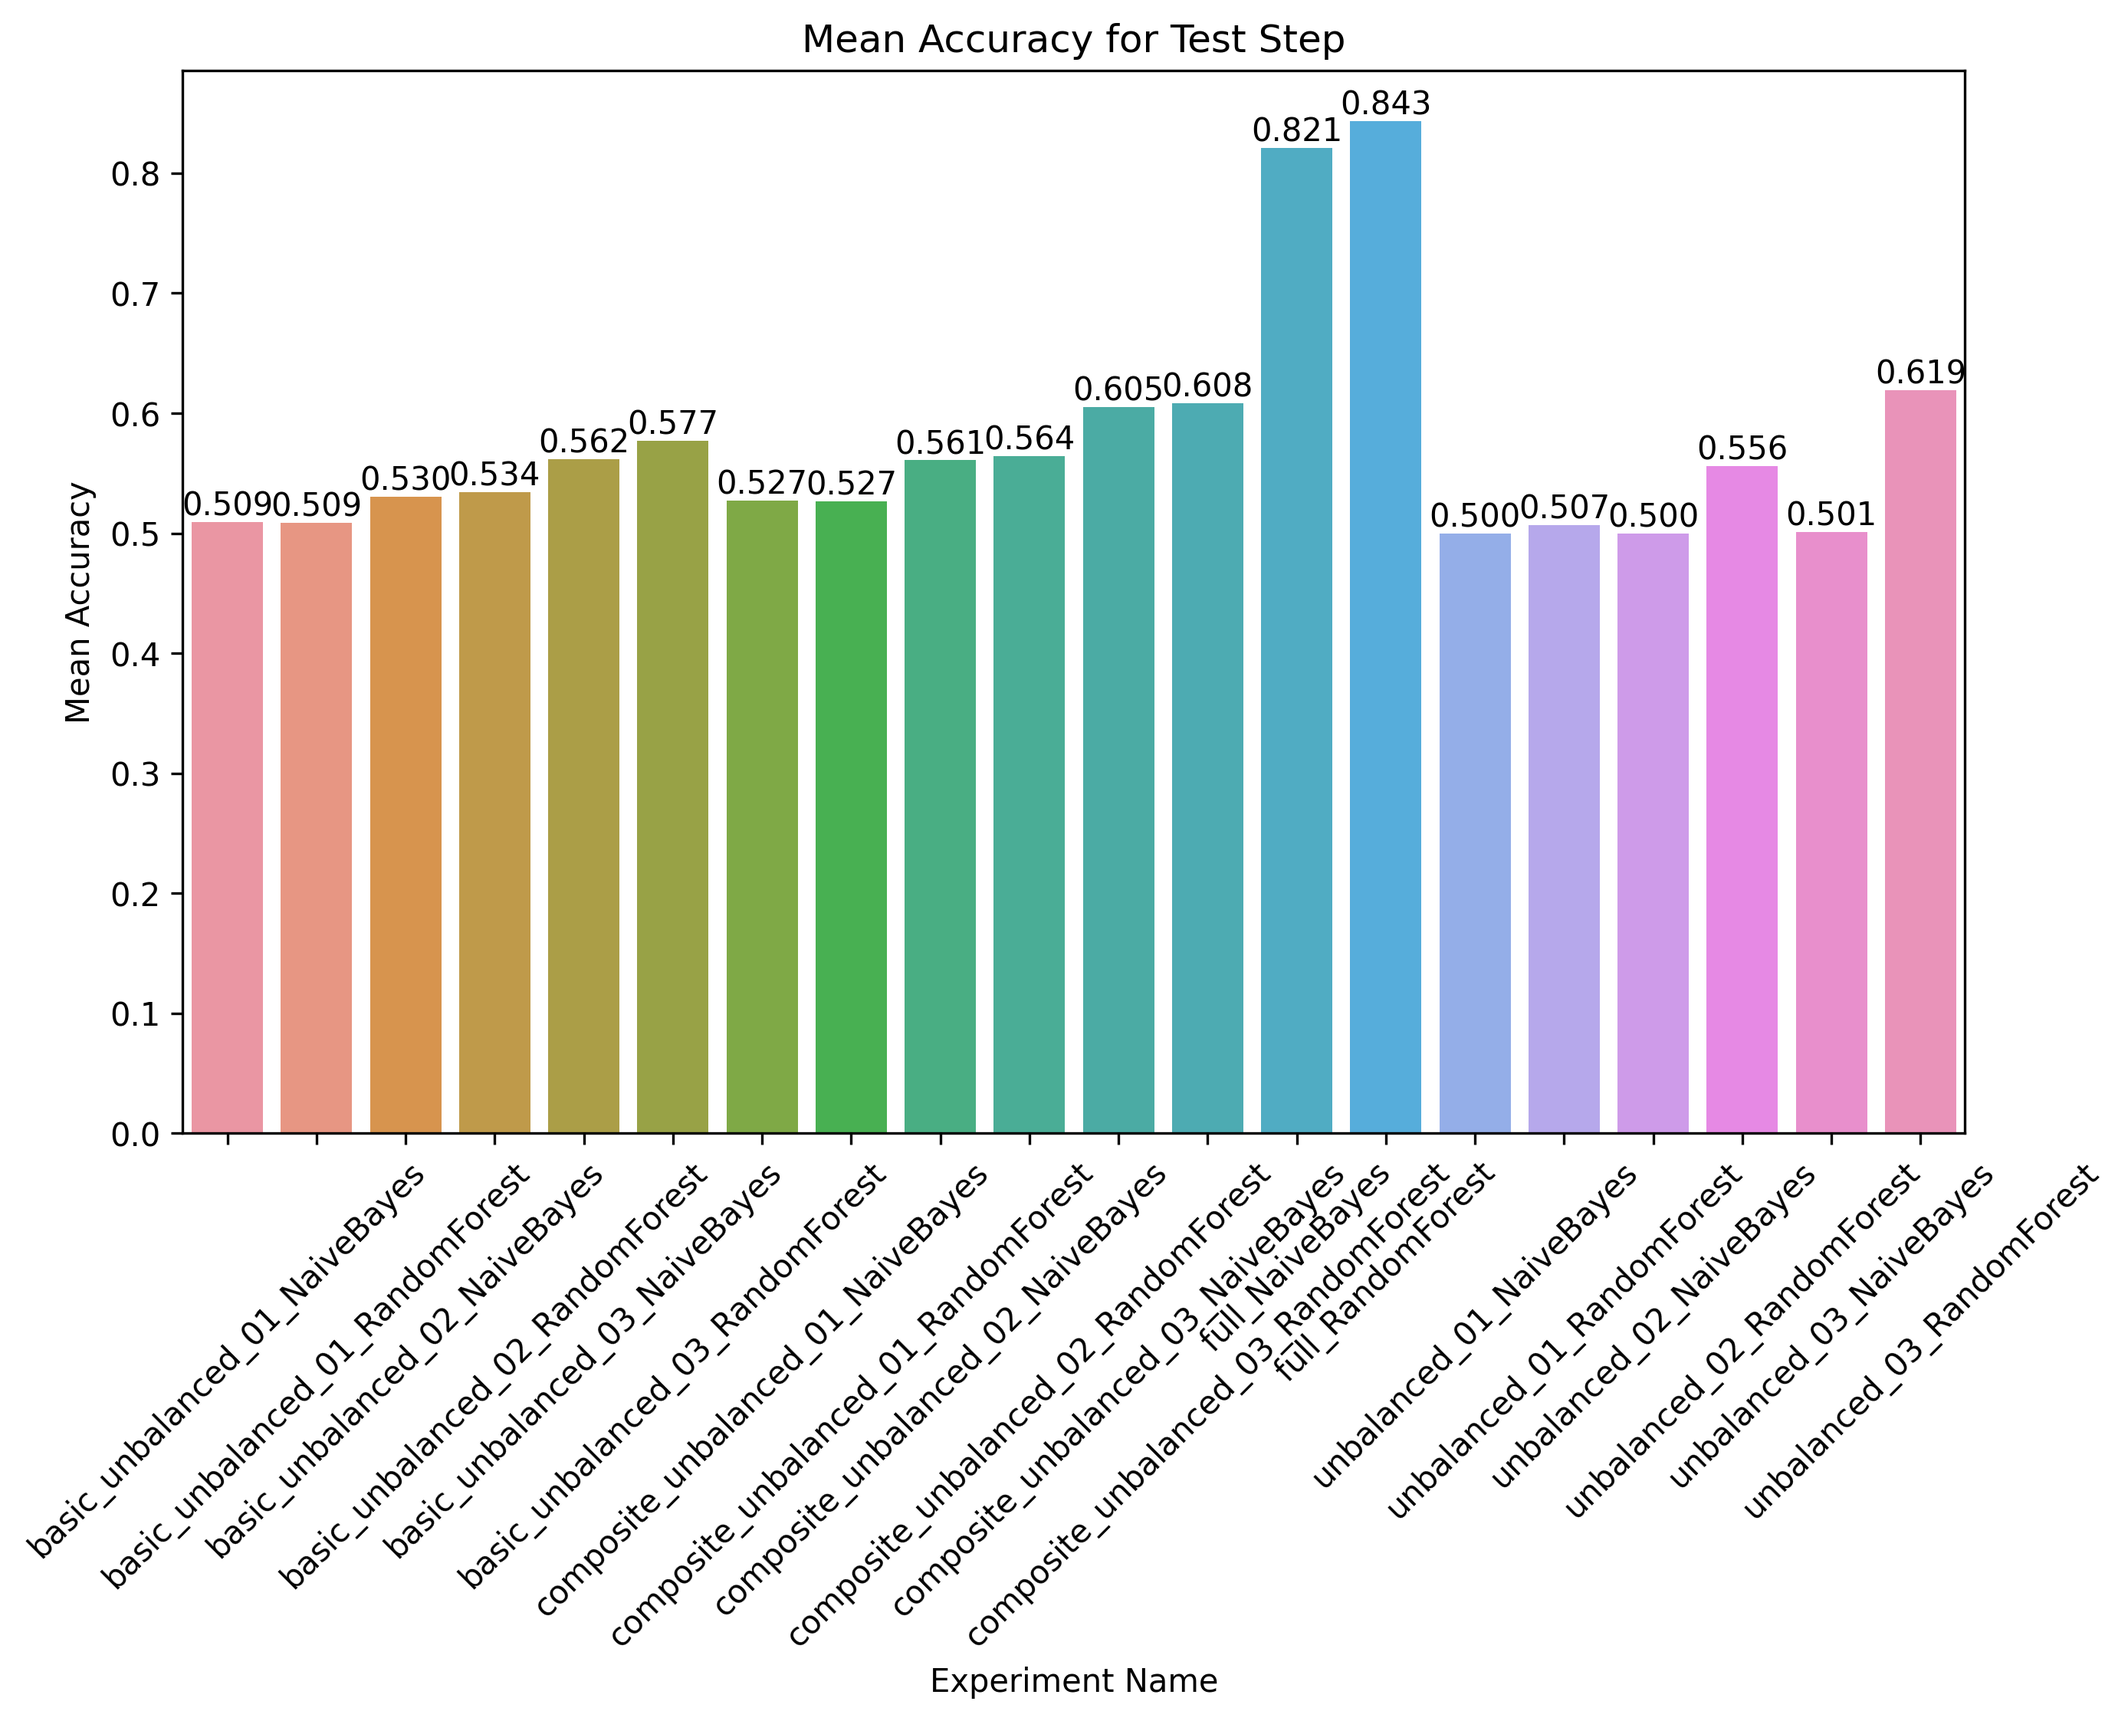
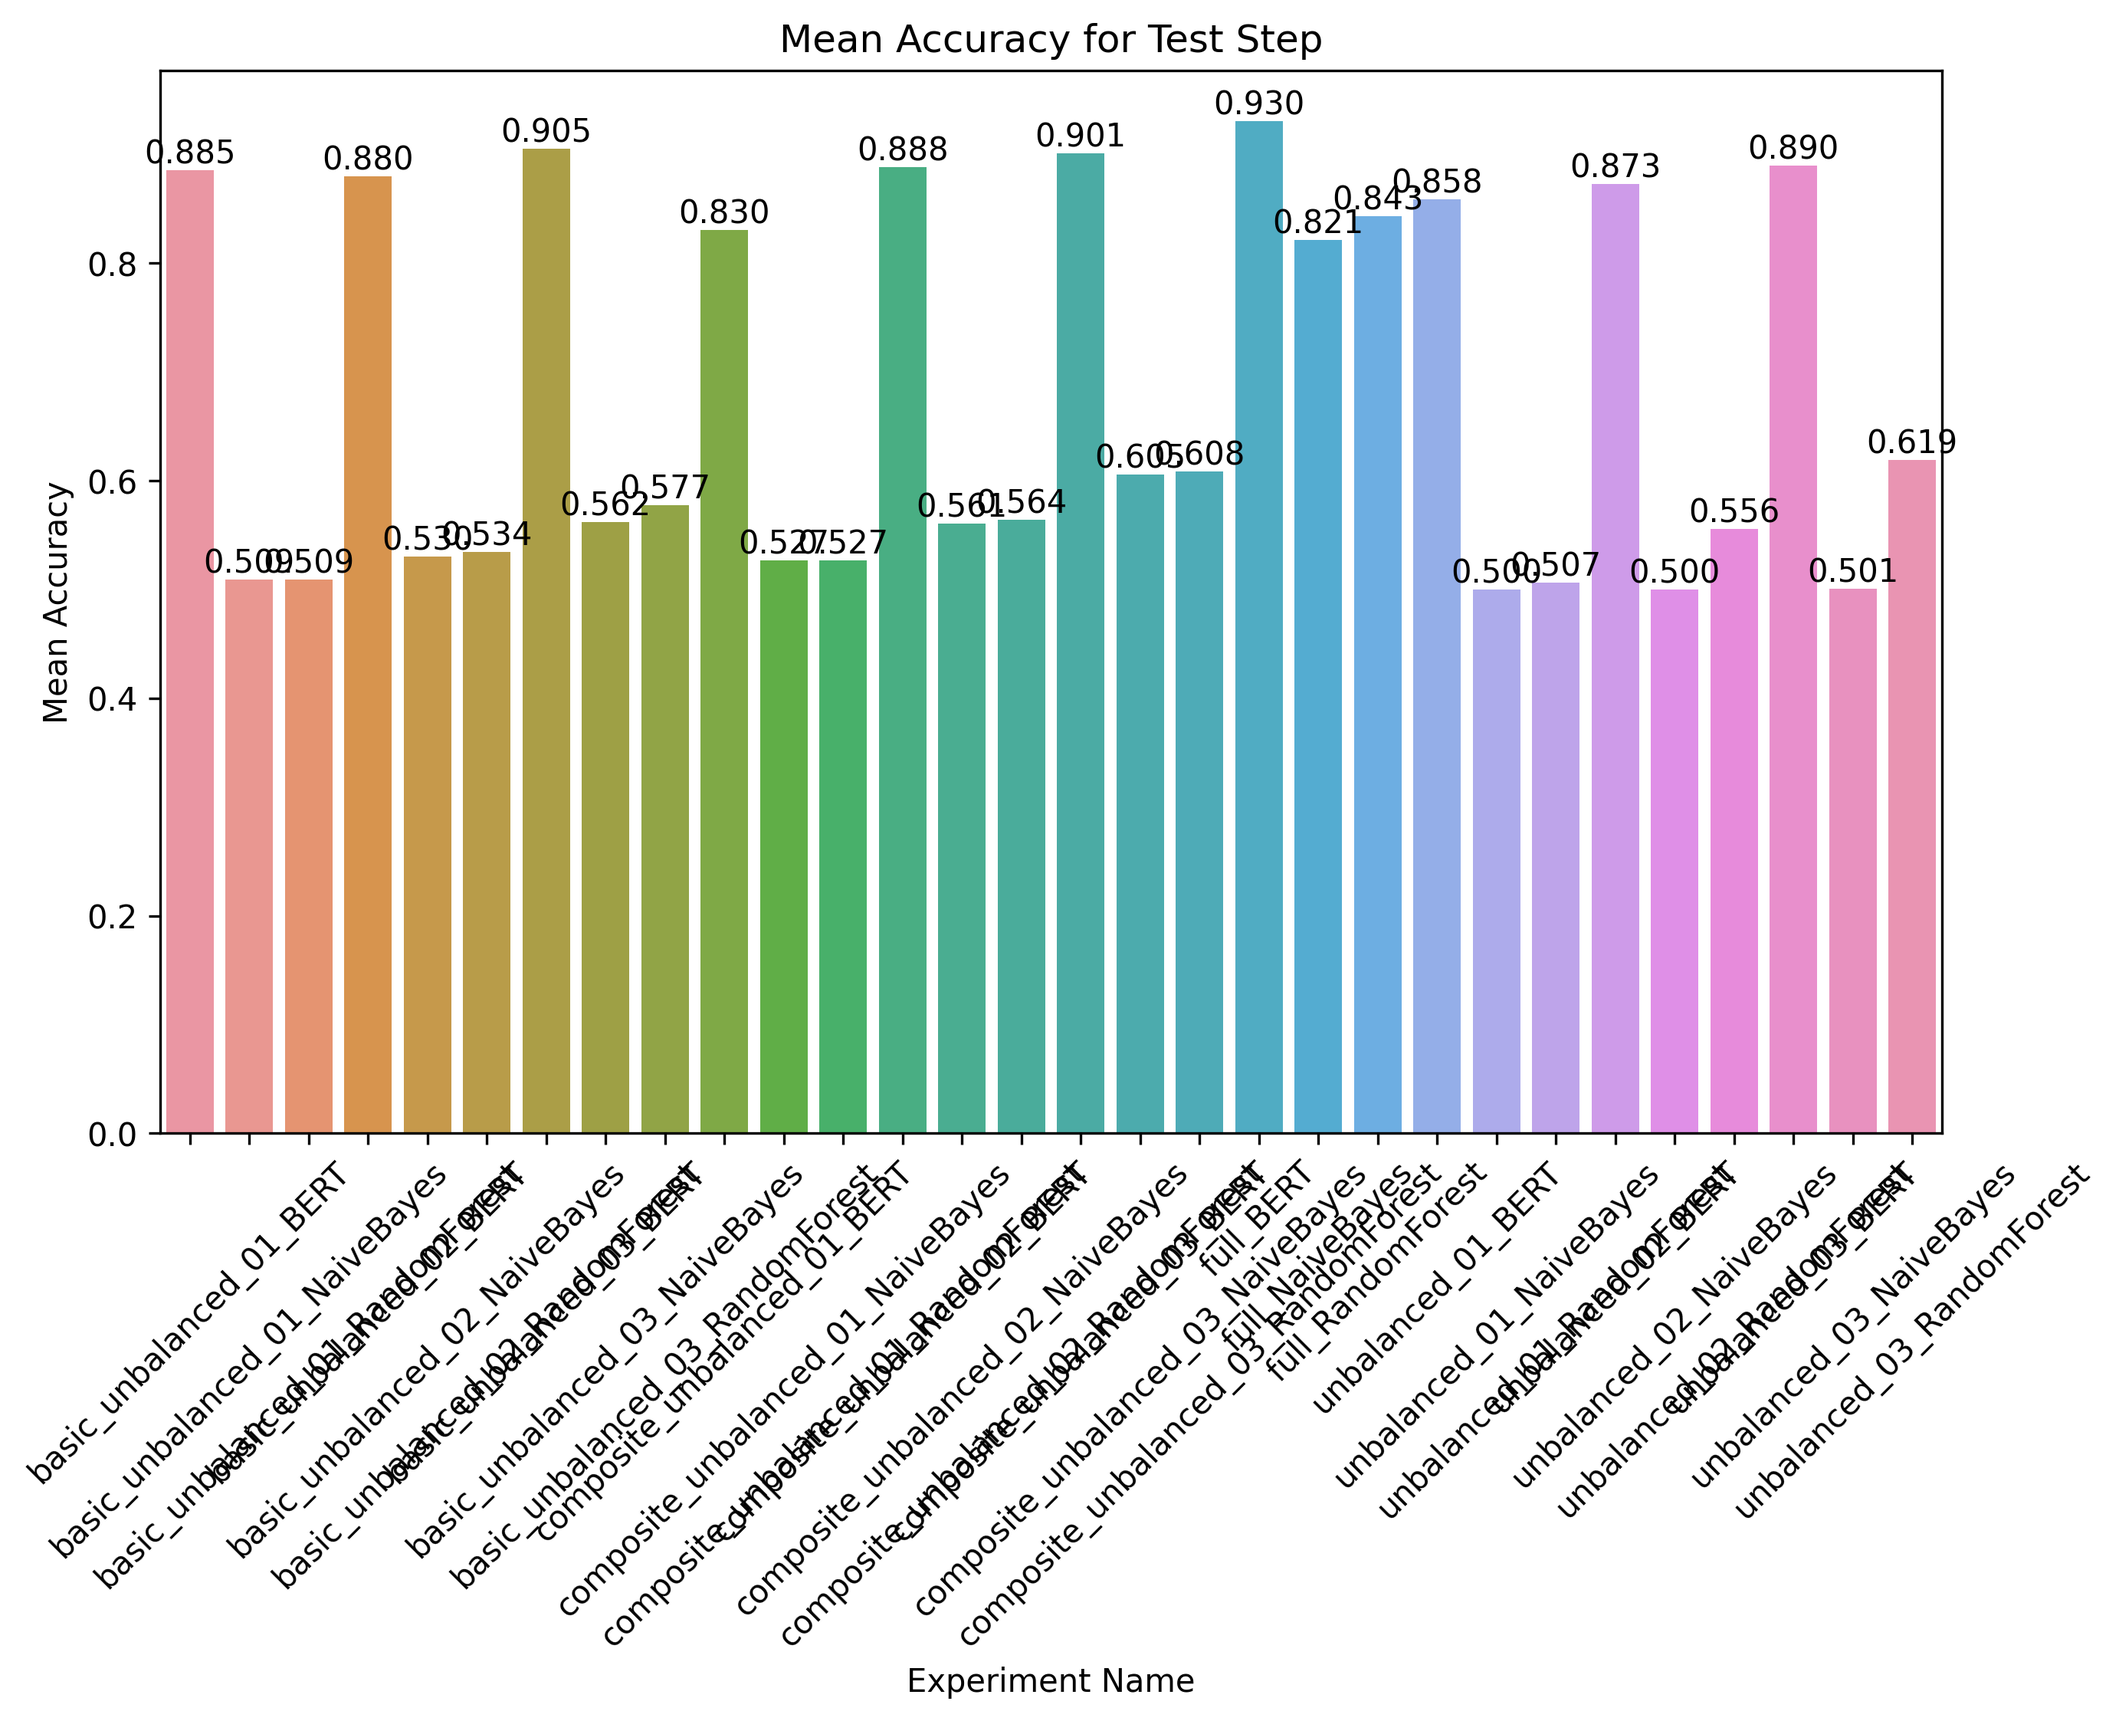
Adds F1 to master of plots and adds plot images

Changed region(s): [[0.0, 0.0, 0.9642, 0.9978]]

diff --git a/src/utils/the_high_master_of_plots.py b/src/utils/the_high_master_of_plots.py
@@ -28,13 +28,13 @@ class TheHighMasterOfPlots:
     def plot_mean_accuracy(self, metrics_data: pd.DataFrame, file_name: str, model_name: str = None):
         # Filter the data to only include the "test" step
         test_data = metrics_data[metrics_data["step"] == "test"]
-        
+
         if model_name is not None:
             test_data = test_data[test_data["experiment_name"].str.contains(model_name)]
-    
+
         # Calculate mean accuracy for each experiment_name
         mean_accuracy = test_data.groupby("experiment_name")["accuracy"].mean().reset_index()
-    
+
         # Create the plot
         plt.figure(figsize=(10, 6))
         bar_plot = sns.barplot(x="experiment_name", y="accuracy", data=mean_accuracy)
@@ -42,7 +42,7 @@ class TheHighMasterOfPlots:
         plt.ylabel("Mean Accuracy")
         plt.title("Mean Accuracy for Test Step")
         plt.xticks(rotation=45)
-    
+
         # Add numbers above each bar
         for i, bar in enumerate(bar_plot.patches):
             bar_plot.annotate(
@@ -51,7 +51,37 @@ class TheHighMasterOfPlots:
                 ha='center', va='bottom',
                 fontsize=10, color='black'
             )
-    
+
+        # Save the plot to a file
+        plt.savefig(os.path.join(self.save_folder, file_name), dpi=300, bbox_inches='tight')
+
+    def plot_mean_f1_score(self, metrics_data: pd.DataFrame, file_name: str, model_name: str = None):
+        # Filter the data to only include the "test" step
+        test_data = metrics_data[metrics_data["step"] == "test"]
+
+        if model_name is not None:
+            test_data = test_data[test_data["experiment_name"].str.contains(model_name)]
+
+        # Calculate mean F1 score for each experiment_name
+        mean_f1_score = test_data.groupby("experiment_name")["f1"].mean().reset_index()
+
+        # Create the plot
+        plt.figure(figsize=(10, 6))
+        bar_plot = sns.barplot(x="experiment_name", y="f1", data=mean_f1_score)
+        plt.xlabel("Experiment Name")
+        plt.ylabel("Mean F1 Score")
+        plt.title("Mean F1 Score for Test Step")
+        plt.xticks(rotation=45)
+
+        # Add numbers above each bar
+        for i, bar in enumerate(bar_plot.patches):
+            bar_plot.annotate(
+                f'{bar.get_height():.3f}',
+                (bar.get_x() + bar.get_width() / 2, bar.get_height()),
+                ha='center', va='bottom',
+                fontsize=10, color='black'
+            )
+
         # Save the plot to a file
         plt.savefig(os.path.join(self.save_folder, file_name), dpi=300, bbox_inches='tight')
 
@@ -63,8 +93,14 @@ if __name__ == "__main__":
     # Gather metrics from the CSV files
     metrics_data = plotter.gather_metrics()
 
-    # Create the mean accuracy plot for the "test" step and save it to a file
+     # Create the mean accuracy plot for the "test" step and save it to a file
     plotter.plot_mean_accuracy(metrics_data, file_name="mean_accuracy_test_step.png")
     plotter.plot_mean_accuracy(metrics_data, model_name="NaiveBayes", file_name="mean_accuracy_test_step_NaiveBayes.png")
     plotter.plot_mean_accuracy(metrics_data, model_name="RandomForest", file_name="mean_accuracy_test_step_RandomForest.png")
     plotter.plot_mean_accuracy(metrics_data, model_name="BERT", file_name="mean_accuracy_test_step_BERT.png")
+
+    # Create the mean F1 score plot for the "test" step and save it to a file
+    plotter.plot_mean_f1_score(metrics_data, file_name="mean_f1_score_test_step.png")
+    plotter.plot_mean_f1_score(metrics_data, model_name="NaiveBayes", file_name="mean_f1_score_test_step_NaiveBayes.png")
+    plotter.plot_mean_f1_score(metrics_data, model_name="RandomForest", file_name="mean_f1_score_test_step_RandomForest.png")
+    plotter.plot_mean_f1_score(metrics_data, model_name="BERT", file_name="mean_f1_score_test_step_BERT.png")
